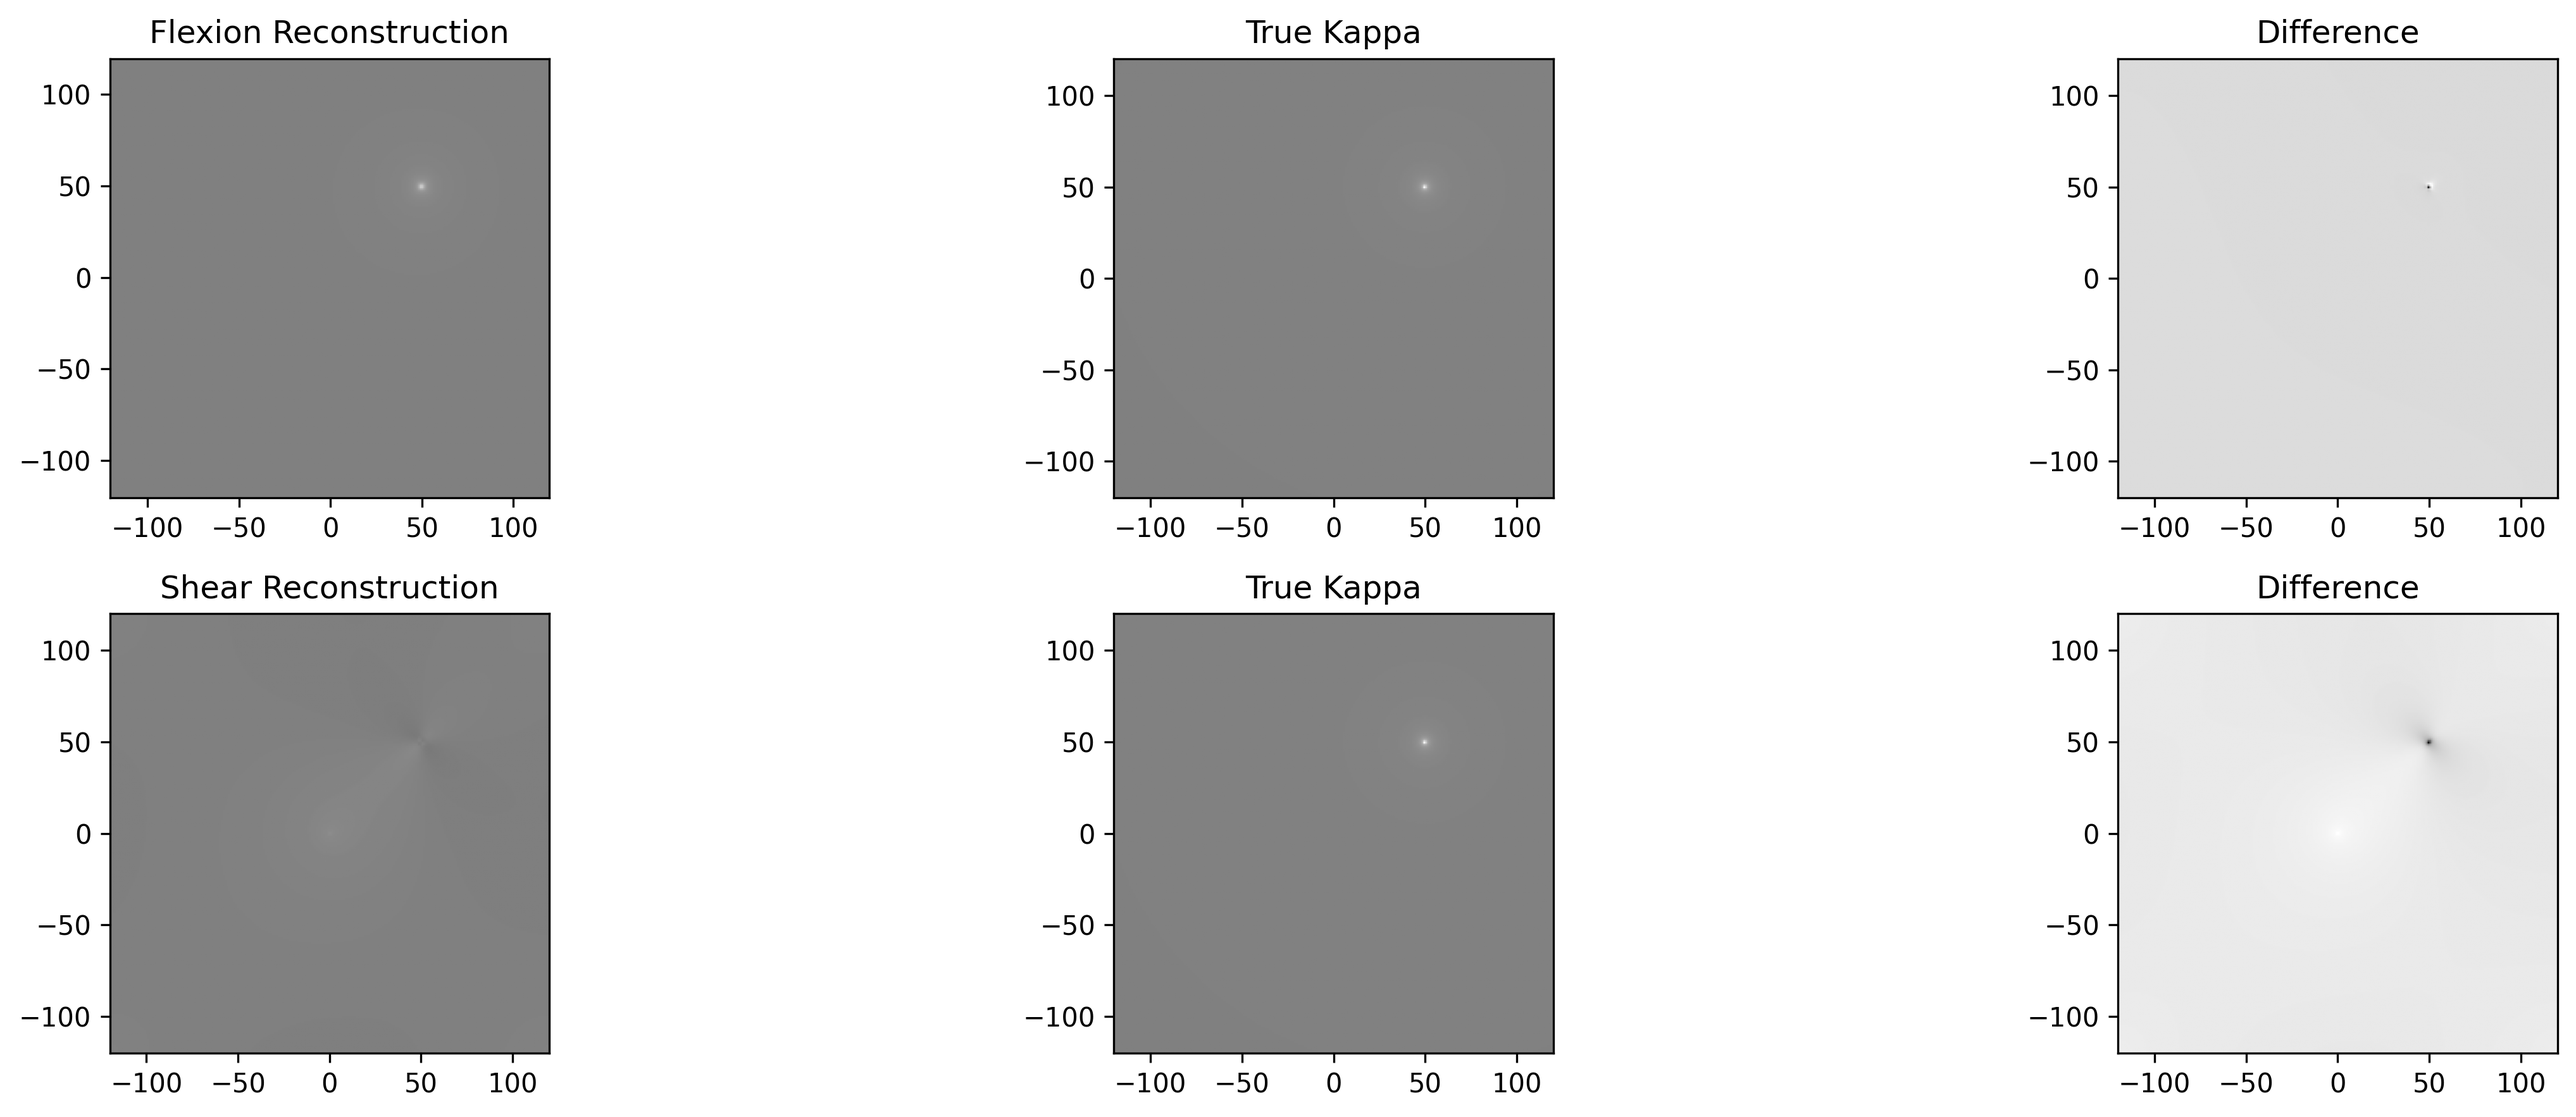
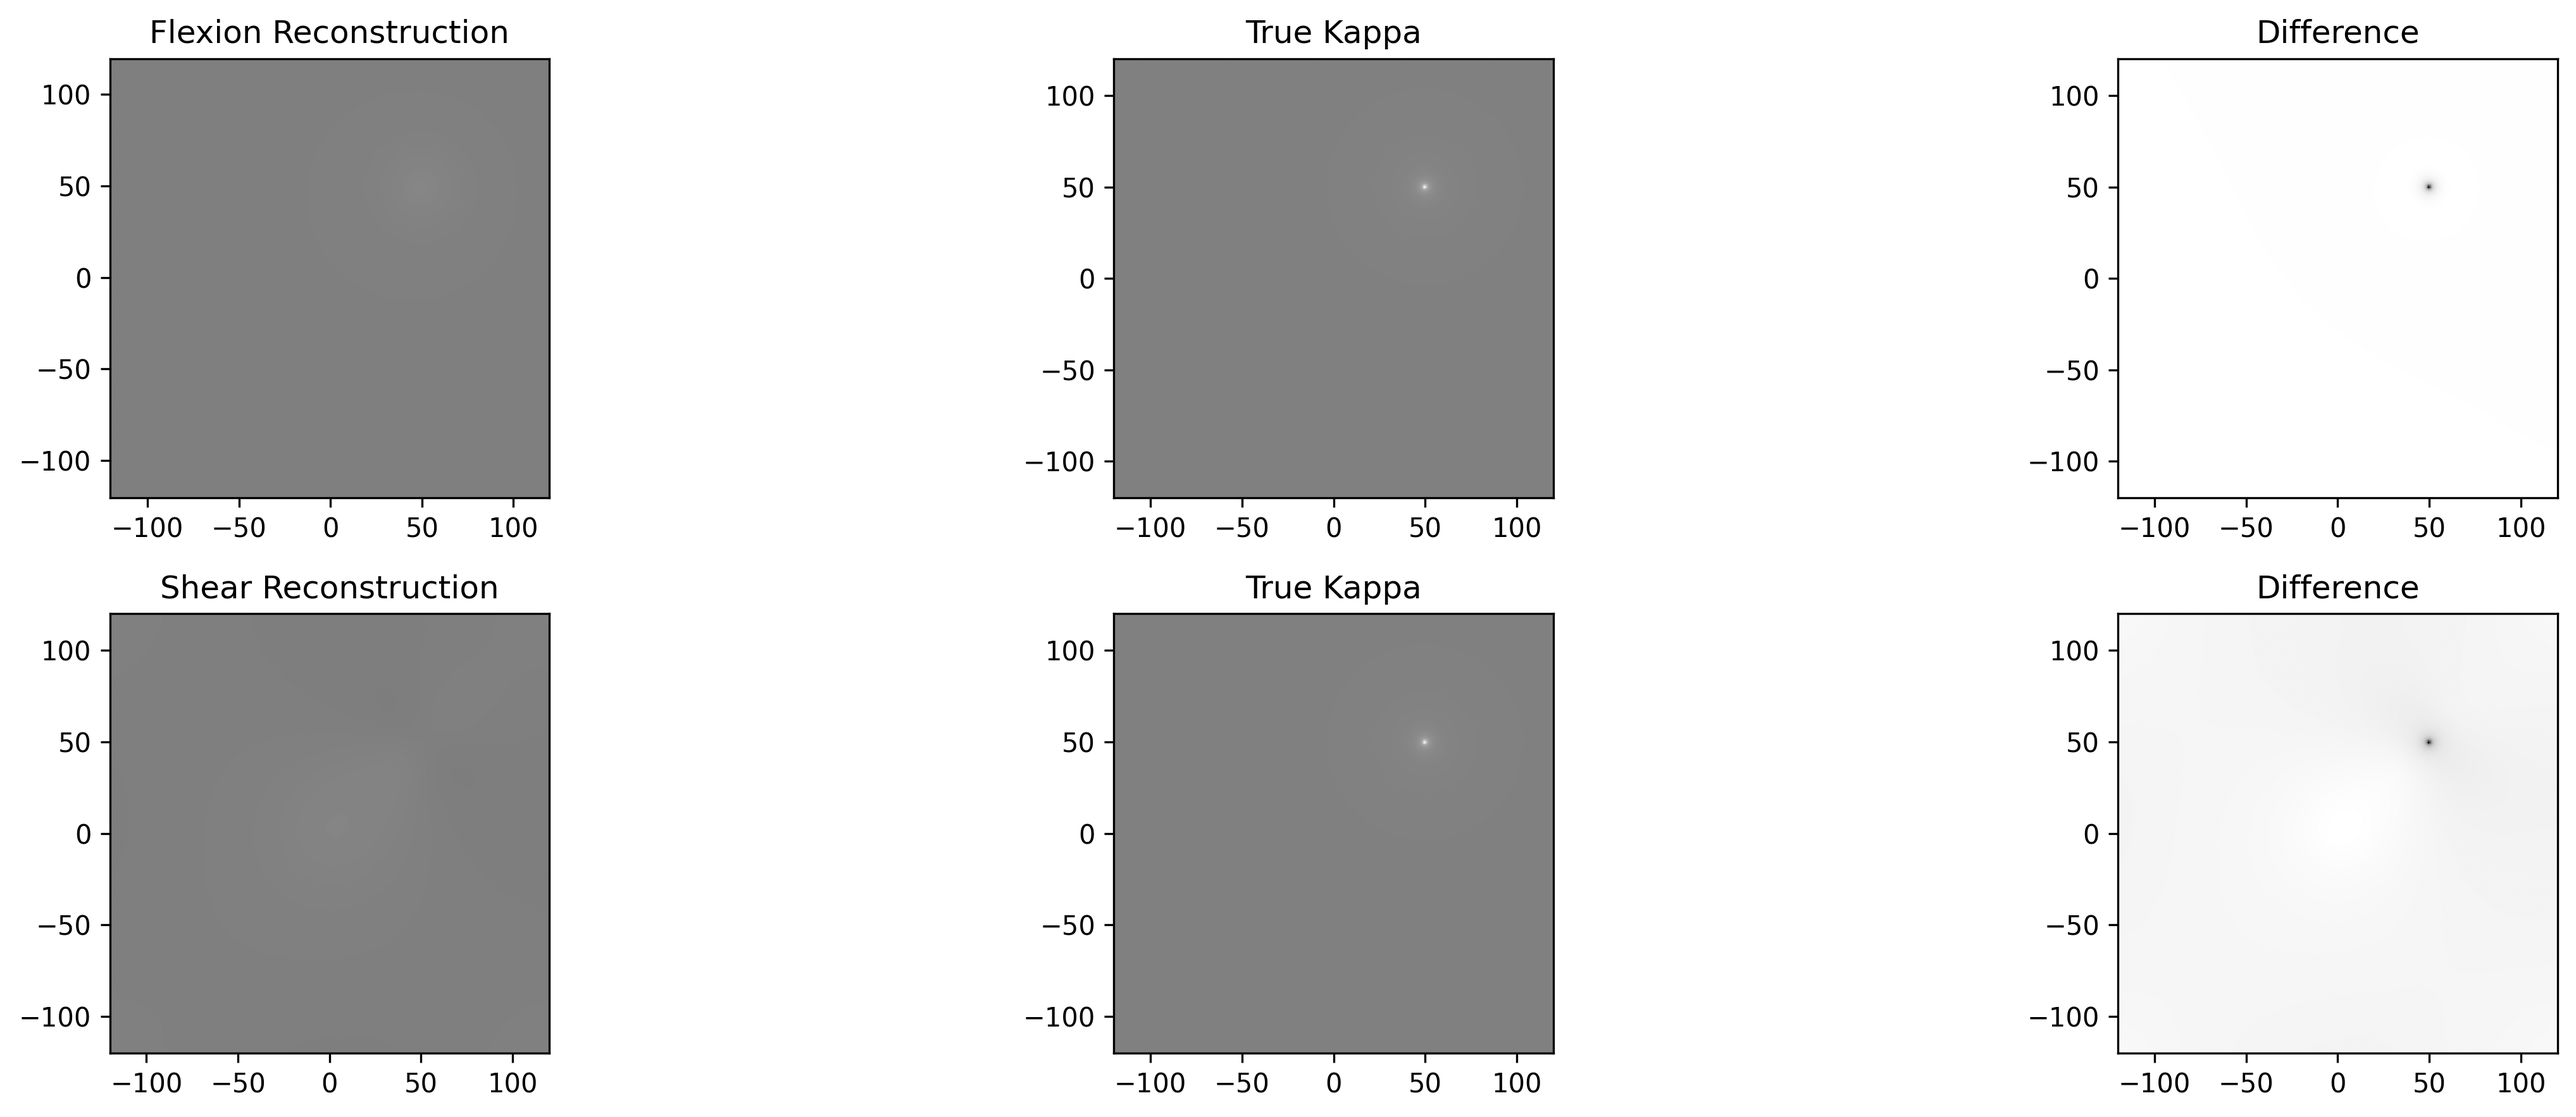
Refactor reconstruction logic and update smoothing scale in lensing analysis

Changed region(s): [[0.8111, 0.0311, 0.9983, 0.4672]]

diff --git a/test_fourier_code.py b/test_fourier_code.py
@@ -93,10 +93,10 @@ if __name__ == '__main__':
         xmax = 120  # size of the grid
 
         # create a grid
-        resolution = 1
         x = np.linspace(-xmax, xmax, 2*xmax) 
         y = np.linspace(-xmax, xmax, 2*xmax) 
         X, Y = np.meshgrid(x, y)
+        phi = np.arctan2(Y, X)
 
         # Create a softened isothermal sphere 
         # Place at the origin
@@ -108,8 +108,8 @@ if __name__ == '__main__':
         R = np.sqrt((X - x_offset)**2 + (Y - y_offset)**2)
         x = R / r_einstein
         kappa = (x**2 + r_core**2) / (2 * x**2 + r_core**2) ** (3/2)
-        gamma1 = - (x**2 / (2 * (x**2 + r_core**2) ** (3/2))) * np.cos(2 * np.arctan2(Y, X))
-        gamma2 = - (x**2 / (2 * (x**2 + r_core**2) ** (3/2))) * np.sin(2 * np.arctan2(Y, X))
+        gamma1 = - (x**2 / (2 * (x**2 + r_core**2) ** (3/2))) * np.cos(2 * phi)
+        gamma2 = - (x**2 / (2 * (x**2 + r_core**2) ** (3/2))) * np.sin(2 * phi)
 
         # From the convergence, determine the flexion
         flexion1, flexion2 = flexion_from_kappa(kappa)
@@ -117,8 +117,8 @@ if __name__ == '__main__':
         # Turn into source objects
         sources = source_obj.Source(X.flatten(), Y.flatten(), gamma1.flatten(), gamma2.flatten(), flexion1.flatten(), flexion2.flatten(), 
                                         np.zeros(X.flatten().shape), np.zeros(X.flatten().shape), np.zeros(X.flatten().shape), np.zeros(X.flatten().shape), np.zeros(X.flatten().shape))
-        X1,Y1,kappa_f = utils.perform_kaiser_squire_reconstruction(sources, [-xmax, xmax, -xmax, xmax], 'flexion', smoothing_scale = 0, resolution_scale=1/resolution)
-        X2,Y2,kappa_s = utils.perform_kaiser_squire_reconstruction(sources, [-xmax, xmax, -xmax, xmax], 'shear', smoothing_scale = 0, resolution_scale=1/resolution)
+        X1,Y1,kappa_f = utils.perform_kaiser_squire_reconstruction(sources, [-xmax, xmax, -xmax, xmax], 'flexion', smoothing_scale = 10)
+        X2,Y2,kappa_s = utils.perform_kaiser_squire_reconstruction(sources, [-xmax, xmax, -xmax, xmax], 'shear', smoothing_scale = 10)
 
         # Determine common color limits across all relevant arrays
         vmin = min(np.min(kappa_f), np.min(kappa), np.min(kappa_f - kappa),

diff --git a/read_hst.py b/read_hst.py
@@ -218,10 +218,29 @@ def reconstruct_a2744(field='cluster', full_reconstruction=False, use_flags=[Tru
 
     # If signal choice is all, also do a kaiser squires reconstruction
     if use_flags == [True, True, True]:
-
+        '''
         lenses = halo_obj.NFW_Lens([130], [130], [0], [10], [1e14], z_cluster, [0])
         sources.zero_lensing_signals()
         sources.apply_lensing(lenses, lens_type=lens_type, z_source=z_source)
+        sources.apply_noise()
+        '''
+
+        # Remove all sources more than 30 arcsec from the center
+        x_c, y_c = 130, 130
+        r = np.sqrt((sources.x - x_c)**2 + (sources.y - y_c)**2)
+        max_r = 30
+        sources.x = sources.x[r < max_r]
+        print(len(sources.x))
+        sources.y = sources.y[r < max_r]
+        sources.f1 = sources.f1[r < max_r]
+        sources.f2 = sources.f2[r < max_r]
+        sources.g1 = sources.g1[r < max_r]
+        sources.g2 = sources.g2[r < max_r]
+        sources.sigf = sources.sigf[r < max_r]
+        sources.sigs = sources.sigs[r < max_r]
+        sources.sigg = sources.sigg[r < max_r]
+        sources.e1 = sources.e1[r < max_r]
+        sources.e2 = sources.e2[r < max_r]
 
         X1, Y1, kappa_f = utils.perform_kaiser_squire_reconstruction(sources, extent, signal = 'flexion')
         X2, Y2, kappa_g = utils.perform_kaiser_squire_reconstruction(sources, extent, signal = 'shear')

diff --git a/utils.py b/utils.py
@@ -216,7 +216,7 @@ def CIC_2d(fsize, npixels, xpos, ypos, signal_values):
     index = np.vstack([irow, icol])
     unique_indices, unique_inverse, counts = np.unique(index, axis=1, return_inverse=True, return_counts=True)
     output = counts[np.searchsorted(unique_indices[0], index[0])]
-    signal_values /= output
+    # signal_values /= output
 
     # Perform accumulation using advanced indexing and broadcasting
     grid[unique_indices[0] % npixels, unique_indices[1]% npixels] += np.bincount(unique_inverse, weights=(1 - drow) * (1 - dcol) * signal_values, minlength=len(unique_indices.T))
@@ -666,6 +666,7 @@ def calculate_lensing_signals_nfw(halos, sources, z_source):
     g_flexion_2 = np.sum(g_flexion_mag * sin3phi, axis=0)
 
     return shear_1, shear_2, flexion_1, flexion_2, g_flexion_1, g_flexion_2
+
 
 def compare_mass_estimates(halos, plot_name, plot_title, cluster_name='Abell_2744'):
     """
